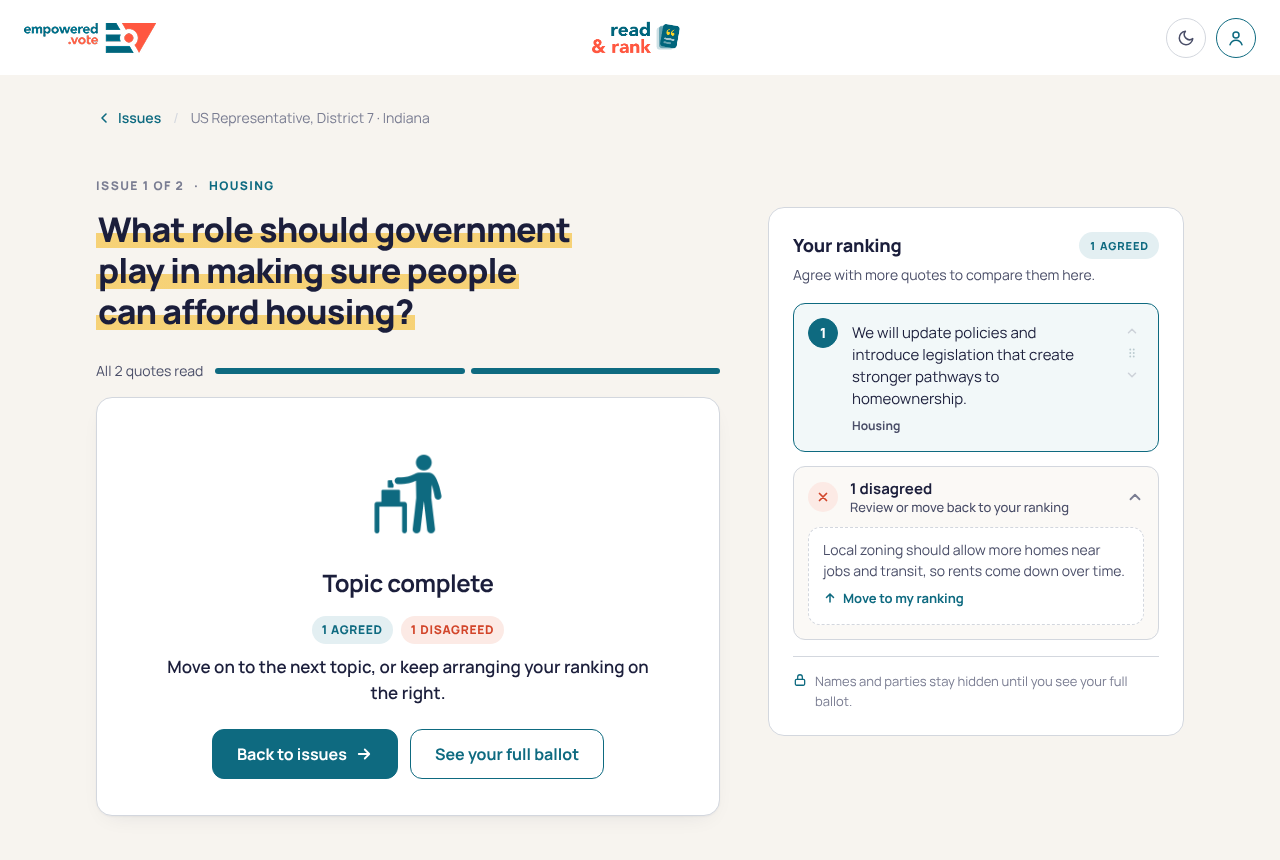
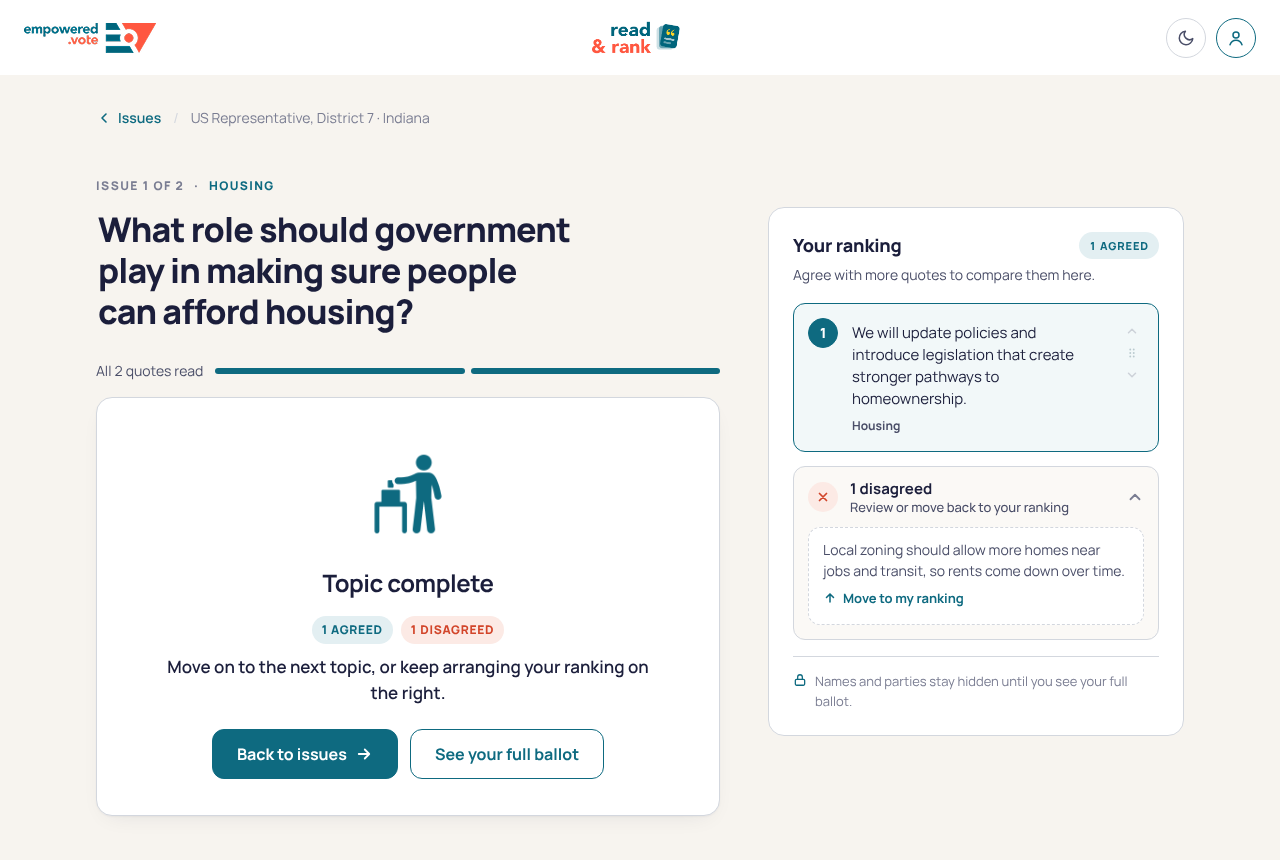
docs: remove yellow highlight behind question title
Claude-Session: https://claude.ai/code/session_01DwfCu4GsxXBrSLCryEySUF

Changed region(s): [[0.0625, 0.2721, 0.4688, 0.393]]

diff --git a/docs/design/readrank-ux-redesign/prototype/index.html b/docs/design/readrank-ux-redesign/prototype/index.html
@@ -556,9 +556,6 @@
       --map-line: #3C465B;
       --coral-strong: #E0573B;
       --coral-tint: #3A221D;
-      /* Question highlight: full-strength brand yellow set low, so the light title text stays readable. */
-      --hl-band: linear-gradient(transparent 80%, var(--yellow) 80%, var(--yellow) 96%, transparent 96%);
-      --hl-shadow: 0 1px 2px rgba(17, 20, 31, .55);
       --shadow: 0 1px 2px rgba(0,0,0,.3), 0 10px 28px -14px rgba(0,0,0,.6);
     }
   }
@@ -580,9 +577,6 @@
     --coral-strong: #E0573B;
     --coral-tint: #3A221D;
     --shadow: 0 1px 2px rgba(0,0,0,.3), 0 10px 28px -14px rgba(0,0,0,.6);
-    /* Question highlight: full-strength brand yellow set low, so the light title text stays readable. */
-    --hl-band: linear-gradient(transparent 80%, var(--yellow) 80%, var(--yellow) 96%, transparent 96%);
-    --hl-shadow: 0 1px 2px rgba(17, 20, 31, .55);
   }
 
   * { box-sizing: border-box; }
@@ -643,8 +637,7 @@
   }
   #s-read .question mark {
     color: inherit;
-    background: var(--hl-band, linear-gradient(transparent 58%, color-mix(in srgb, var(--yellow) 70%, transparent) 58%, color-mix(in srgb, var(--yellow) 70%, transparent) 92%, transparent 92%));
-    text-shadow: var(--hl-shadow, none);
+    background: none;
     -webkit-box-decoration-break: clone; box-decoration-break: clone;
     padding-inline: 2px;
   }

diff --git a/docs/design/readrank-ux-redesign/prototype/read.html b/docs/design/readrank-ux-redesign/prototype/read.html
@@ -43,9 +43,6 @@
       --map-line: #3C465B;
       --coral-strong: #E0573B;
       --coral-tint: #3A221D;
-      /* Question highlight: full-strength brand yellow set low, so the light title text stays readable. */
-      --hl-band: linear-gradient(transparent 80%, var(--yellow) 80%, var(--yellow) 96%, transparent 96%);
-      --hl-shadow: 0 1px 2px rgba(17, 20, 31, .55);
       --shadow: 0 1px 2px rgba(0,0,0,.3), 0 10px 28px -14px rgba(0,0,0,.6);
     }
   }
@@ -67,9 +64,6 @@
     --coral-strong: #E0573B;
     --coral-tint: #3A221D;
     --shadow: 0 1px 2px rgba(0,0,0,.3), 0 10px 28px -14px rgba(0,0,0,.6);
-    /* Question highlight: full-strength brand yellow set low, so the light title text stays readable. */
-    --hl-band: linear-gradient(transparent 80%, var(--yellow) 80%, var(--yellow) 96%, transparent 96%);
-    --hl-shadow: 0 1px 2px rgba(17, 20, 31, .55);
   }
 
   * { box-sizing: border-box; }
@@ -130,8 +124,7 @@
   }
   .question mark {
     color: inherit;
-    background: var(--hl-band, linear-gradient(transparent 58%, color-mix(in srgb, var(--yellow) 70%, transparent) 58%, color-mix(in srgb, var(--yellow) 70%, transparent) 92%, transparent 92%));
-    text-shadow: var(--hl-shadow, none);
+    background: none;
     -webkit-box-decoration-break: clone; box-decoration-break: clone;
     padding-inline: 2px;
   }
